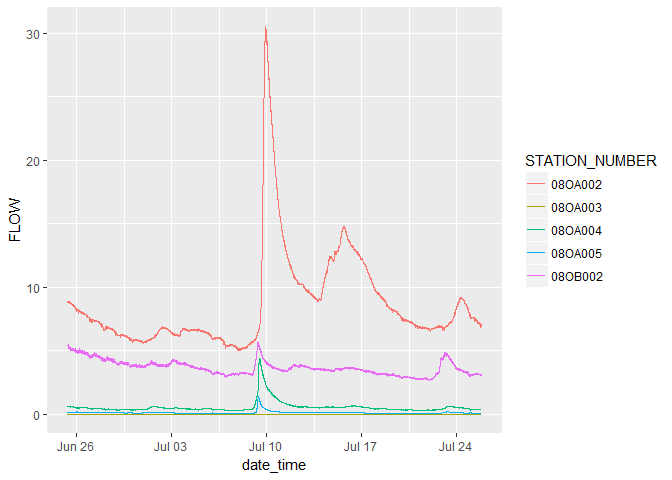
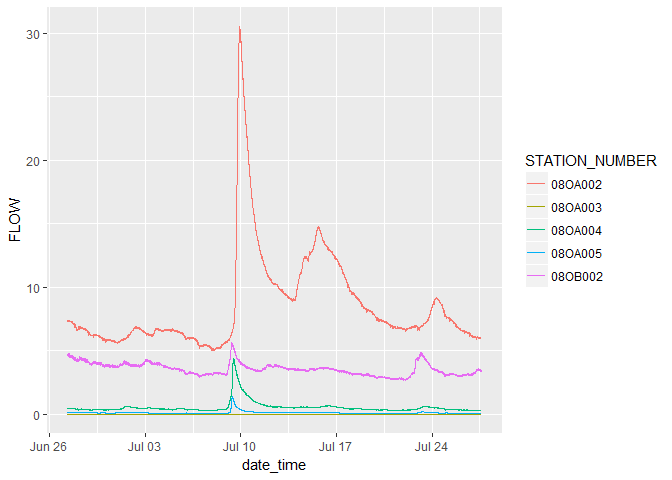
Added travis

diff --git a/README.md b/README.md
@@ -1,5 +1,7 @@
 <a rel="Exploration" href="https://github.com/BCDevExchange/docs/blob/master/discussion/projectstates.md"><img alt="Being designed and built, but in the lab. May change, disappear, or be buggy." style="border-width:0" src="https://assets.bcdevexchange.org/images/badges/exploration.svg" title="Being designed and built, but in the lab. May change, disappear, or be buggy." /></a>
 
+[![Travis-CI Build Status](https://travis-ci.org/bcgov/tidyhydat.svg?branch=master)](https://travis-ci.org/bcgov/tidyhydat)
+
 <!-- README.md is generated from README.Rmd. Please edit that file -->
 tidyhydat
 =========
@@ -28,6 +30,7 @@ Then to load the package you need to use the `library` function. When you instal
 ``` r
 library(tidyhydat)
 library(dplyr)
+#> Warning: package 'dplyr' was built under R version 3.4.1
 #> 
 #> Attaching package: 'dplyr'
 #> The following objects are masked from 'package:stats':
@@ -167,20 +170,20 @@ To download realtime data we can use approximately the same conventions discusse
 
 ``` r
 download_realtime(STATION_NUMBER = "08LG006", PROV_TERR_STATE_LOC = "BC")
-#> # A tibble: 8,706 x 10
+#> # A tibble: 8,646 x 10
 #>    STATION_NUMBER           date_time LEVEL LEVEL_GRADE LEVEL_SYMBOL
 #>             <chr>              <dttm> <dbl>       <chr>        <chr>
-#>  1        08LG006 2017-06-25 08:00:00 1.955        <NA>         <NA>
-#>  2        08LG006 2017-06-25 08:05:00 1.955        <NA>         <NA>
-#>  3        08LG006 2017-06-25 08:10:00 1.956        <NA>         <NA>
-#>  4        08LG006 2017-06-25 08:15:00 1.957        <NA>         <NA>
-#>  5        08LG006 2017-06-25 08:20:00 1.957        <NA>         <NA>
-#>  6        08LG006 2017-06-25 08:25:00 1.958        <NA>         <NA>
-#>  7        08LG006 2017-06-25 08:30:00 1.959        <NA>         <NA>
-#>  8        08LG006 2017-06-25 08:35:00 1.959        <NA>         <NA>
-#>  9        08LG006 2017-06-25 08:40:00 1.960        <NA>         <NA>
-#> 10        08LG006 2017-06-25 08:45:00 1.961        <NA>         <NA>
-#> # ... with 8,696 more rows, and 5 more variables: LEVEL_CODE <int>,
+#>  1        08LG006 2017-06-27 08:00:00 1.994        <NA>         <NA>
+#>  2        08LG006 2017-06-27 08:05:00 1.995        <NA>         <NA>
+#>  3        08LG006 2017-06-27 08:10:00 1.995        <NA>         <NA>
+#>  4        08LG006 2017-06-27 08:15:00 1.995        <NA>         <NA>
+#>  5        08LG006 2017-06-27 08:20:00 1.996        <NA>         <NA>
+#>  6        08LG006 2017-06-27 08:25:00 1.996        <NA>         <NA>
+#>  7        08LG006 2017-06-27 08:30:00 1.996        <NA>         <NA>
+#>  8        08LG006 2017-06-27 08:35:00 1.996        <NA>         <NA>
+#>  9        08LG006 2017-06-27 08:40:00 1.997        <NA>         <NA>
+#> 10        08LG006 2017-06-27 08:45:00 1.997        <NA>         <NA>
+#> # ... with 8,636 more rows, and 5 more variables: LEVEL_CODE <int>,
 #> #   FLOW <dbl>, FLOW_GRADE <chr>, FLOW_SYMBOL <chr>, FLOW_CODE <int>
 ```
 
@@ -191,20 +194,20 @@ We can use the `download_network()` functionality to get a vector of stations by
 
 ``` r
 download_realtime(STATION_NUMBER = "ALL", PROV_TERR_STATE_LOC = "PE")
-#> # A tibble: 34,004 x 10
+#> # A tibble: 34,669 x 10
 #>    STATION_NUMBER           date_time LEVEL LEVEL_GRADE LEVEL_SYMBOL
 #>             <chr>              <dttm> <dbl>       <chr>        <chr>
-#>  1        01CD005 2017-06-25 04:00:00 0.606        <NA>         <NA>
-#>  2        01CD005 2017-06-25 04:15:00 0.606        <NA>         <NA>
-#>  3        01CD005 2017-06-25 04:30:00 0.609        <NA>         <NA>
-#>  4        01CD005 2017-06-25 04:45:00 0.609        <NA>         <NA>
-#>  5        01CD005 2017-06-25 05:00:00 0.610        <NA>         <NA>
-#>  6        01CD005 2017-06-25 05:15:00 0.610        <NA>         <NA>
-#>  7        01CD005 2017-06-25 05:30:00 0.609        <NA>         <NA>
-#>  8        01CD005 2017-06-25 05:45:00 0.609        <NA>         <NA>
-#>  9        01CD005 2017-06-25 06:00:00 0.609        <NA>         <NA>
-#> 10        01CD005 2017-06-25 06:15:00 0.608        <NA>         <NA>
-#> # ... with 33,994 more rows, and 5 more variables: LEVEL_CODE <int>,
+#>  1        01CD005 2017-06-27 04:00:00 0.582        <NA>         <NA>
+#>  2        01CD005 2017-06-27 04:15:00 0.583        <NA>         <NA>
+#>  3        01CD005 2017-06-27 04:30:00 0.583        <NA>         <NA>
+#>  4        01CD005 2017-06-27 04:45:00 0.583        <NA>         <NA>
+#>  5        01CD005 2017-06-27 05:00:00 0.582        <NA>         <NA>
+#>  6        01CD005 2017-06-27 05:15:00 0.581        <NA>         <NA>
+#>  7        01CD005 2017-06-27 05:30:00 0.580        <NA>         <NA>
+#>  8        01CD005 2017-06-27 05:45:00 0.580        <NA>         <NA>
+#>  9        01CD005 2017-06-27 06:00:00 0.581        <NA>         <NA>
+#> 10        01CD005 2017-06-27 06:15:00 0.583        <NA>         <NA>
+#> # ... with 34,659 more rows, and 5 more variables: LEVEL_CODE <int>,
 #> #   FLOW <dbl>, FLOW_GRADE <chr>, FLOW_SYMBOL <chr>, FLOW_CODE <int>
 ```
 
@@ -281,7 +284,8 @@ library(bcmaps)
 #> Loading required package: sp
 #> Warning: package 'sp' was built under R version 3.4.1
 library(sf)
-#> Linking to GEOS 3.5.0, GDAL 2.1.1, proj.4 4.9.3
+#> Warning: package 'sf' was built under R version 3.4.1
+#> Linking to GEOS 3.6.1, GDAL 2.2.0, proj.4 4.9.3
 ```
 
 Now to return the question. BC is divided into hydrologic zones. If use the hydrozones layer in `bcmaps` and convert it to `sf` format, determining which stations reside in which hydrologic zone is trivial. Using `st_join` allows to ask which hydrometric stations in the realtime network (called by `download_network`) are in which hydrologic zones. If we are interested in all realtime stations in the QUEEN CHARLOTTE ISLANDS hydrologic zone, we can generate that list by filtering by the relevant hydrologic zone:
